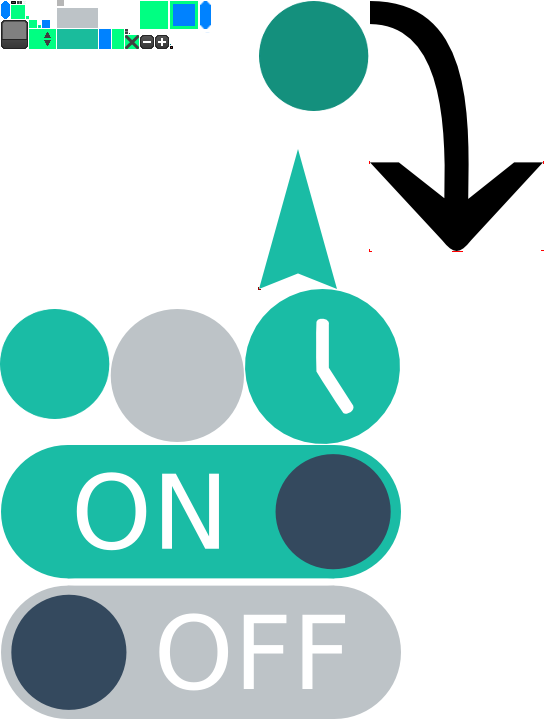
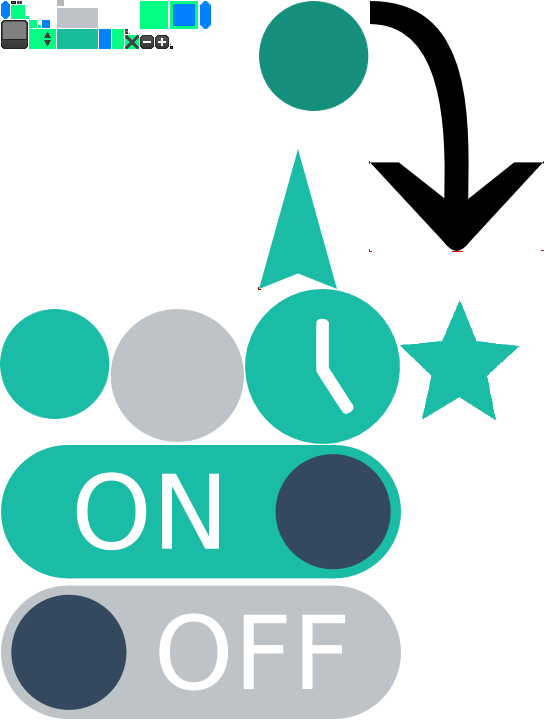
added a score overlay to display the current score

Changed region(s): [[0.7109, 0.4272, 0.9582, 0.5798]]

diff --git a/core/src/de/fau/cs/mad/fly/game/ScoreController.java b/core/src/de/fau/cs/mad/fly/game/ScoreController.java
@@ -1,6 +1,8 @@
 package de.fau.cs.mad.fly.game;
 
+import java.util.ArrayList;
 import java.util.Date;
+import java.util.List;
 
 import de.fau.cs.mad.fly.profile.Score;
 import de.fau.cs.mad.fly.profile.ScoreDetail;
@@ -13,7 +15,7 @@ import de.fau.cs.mad.fly.res.Gate;
  * @author Tobi
  *
  */
-public class ScoreController extends EventAdapter {
+public class ScoreController extends EventAdapter {    
 	/**
 	 * The total score.
 	 */
@@ -28,11 +30,17 @@ public class ScoreController extends EventAdapter {
 	 * The score from collected bonus points.
 	 */
 	private int bonusPoints = 0;
+	
+	/**
+	 * List of score change listeners which get notified if the score has changed.
+	 */
+    private List<ScoreChangeListener> scoreChangeListeners;
 
 	/**
 	 * Creates a new score controller.
 	 */
-	public ScoreController() {	
+	public ScoreController() {
+		scoreChangeListeners = new ArrayList<ScoreChangeListener>();
 	}
 	
 	/**
@@ -77,6 +85,7 @@ public class ScoreController extends EventAdapter {
     public void addBonusPoints(int bonusPoints) {
     	this.bonusPoints += bonusPoints;
     	this.totalScore += bonusPoints;
+    	scoreChanged();
     }
     
     /**
@@ -87,9 +96,27 @@ public class ScoreController extends EventAdapter {
     	return totalScore;
     }
     
+    /**
+     * Notifies all {@link ScoreChangeListener}
+     */
+    private void scoreChanged() {
+    	int size = scoreChangeListeners.size();
+        for (int i = 0; i < size; i++) {
+        	scoreChangeListeners.get(i).scoreChanged(totalScore);
+        }
+    }
+    
+    /**
+     * Register a new {@link ScoreChangeListener}
+     */
+    public void registerScoreChangeListener(ScoreChangeListener listener) {
+    	scoreChangeListeners.add(listener);
+    }
+    
     @Override
     public void onGatePassed(Gate gate) {
     	this.gatePassedScore += gate.score;
     	this.totalScore += gate.score;
+    	scoreChanged();
     }
 }

diff --git a/core/src/de/fau/cs/mad/fly/game/GameControllerBuilder.java b/core/src/de/fau/cs/mad/fly/game/GameControllerBuilder.java
@@ -28,6 +28,7 @@ import de.fau.cs.mad.fly.features.overlay.GameFinishedOverlay;
 import de.fau.cs.mad.fly.features.overlay.InfoButtonOverlay;
 import de.fau.cs.mad.fly.features.overlay.InfoOverlay;
 import de.fau.cs.mad.fly.features.overlay.PauseGameOverlay;
+import de.fau.cs.mad.fly.features.overlay.ScoreOverlay;
 import de.fau.cs.mad.fly.features.overlay.SteeringOverlay;
 import de.fau.cs.mad.fly.features.overlay.SteeringResetOverlay;
 import de.fau.cs.mad.fly.features.overlay.TimeLeftOverlay;
@@ -199,6 +200,7 @@ public class GameControllerBuilder {
         Preferences preferences = playerProfile.getSettingManager().getPreferences();
         addGateIndicator();
         addTimeLeftOverlay();
+        addScoreOverlay();
         addInfoOverlays();
         
         if (preferences.getBoolean(SettingManager.SHOW_PAUSE)) {
@@ -323,14 +325,24 @@ public class GameControllerBuilder {
     }
     
     /**
-     * Adds a {@link TimeLeftOverlay} to the GameController, that is initialized
-     * and updated every frame.
+     * Adds a {@link TimeLeftOverlay} to the GameController.
      * 
      * @return Builder instance with TimeLeftOverlay
      */
     private GameControllerBuilder addTimeLeftOverlay() {
         TimeLeftOverlay timeLeftOverlay = new TimeLeftOverlay(game.getSkin(), stage);
         timeController.registerIntegerTimeListener(timeLeftOverlay);
+        return this;
+    }
+    
+    /**
+     * Adds a {@link ScoreOverlay} to the GameController.
+     * 
+     * @return Builder instance with ScoreOverlay
+     */
+    private GameControllerBuilder addScoreOverlay() {
+        ScoreOverlay scoreOverlay = new ScoreOverlay(game.getSkin(), stage);
+        scoreController.registerScoreChangeListener(scoreOverlay);
         return this;
     }
     

diff --git a/core/src/de/fau/cs/mad/fly/features/overlay/ScoreOverlay.java b/core/src/de/fau/cs/mad/fly/features/overlay/ScoreOverlay.java
@@ -1,0 +1,48 @@
+package de.fau.cs.mad.fly.features.overlay;
+
+import com.badlogic.gdx.graphics.g2d.NinePatch;
+import com.badlogic.gdx.graphics.g2d.TextureRegion;
+import com.badlogic.gdx.scenes.scene2d.Stage;
+import com.badlogic.gdx.scenes.scene2d.ui.Image;
+import com.badlogic.gdx.scenes.scene2d.ui.Label;
+import com.badlogic.gdx.scenes.scene2d.ui.Skin;
+import com.badlogic.gdx.scenes.scene2d.ui.Table;
+import com.badlogic.gdx.scenes.scene2d.utils.NinePatchDrawable;
+
+import de.fau.cs.mad.fly.game.IntegerTimeListener;
+import de.fau.cs.mad.fly.game.ScoreChangeListener;
+
+/**
+ * Optional Feature to display the current score.
+ * 
+ * @author Tobias Zangl
+ */
+public class ScoreOverlay implements ScoreChangeListener {
+
+	private final Label scoreCounter;
+
+	public ScoreOverlay(final Skin skin, final Stage stage) {	    
+        
+        final Table innerTable = new Table();
+        final NinePatchDrawable background = new NinePatchDrawable(skin.get("grey-progress-bar", NinePatch.class));
+        innerTable.setBackground(background);
+        
+        final TextureRegion textureRegion = new TextureRegion(skin.getRegion("star"));
+        final Image scoreIcon = new Image(textureRegion);
+        
+        scoreCounter = new Label("", skin);
+        
+        innerTable.row().expand();
+        innerTable.add(scoreIcon);
+        innerTable.add(scoreCounter).pad(0, 50, 0, 0);
+        innerTable.row().expand();
+        stage.addActor(innerTable);
+        innerTable.setBounds(3350, 2050, 600, 300);
+	}
+
+	@Override
+	public void scoreChanged(int newScore) {
+		scoreCounter.setText(String.valueOf(newScore));
+	}
+
+}

diff --git a/core/src/de/fau/cs/mad/fly/game/TimeIsUpListener.java b/core/src/de/fau/cs/mad/fly/game/TimeIsUpListener.java
@@ -3,7 +3,7 @@ package de.fau.cs.mad.fly.game;
 public interface TimeIsUpListener {
 	
 	/**
-	 * Is called if the time of the level is other.
+	 * Is called if the time of the level is over.
 	 * 
 	 * @return true, if the listener wants to be removed from the list after the call, false otherwise.
 	 */

diff --git a/core/src/de/fau/cs/mad/fly/game/ScoreChangeListener.java b/core/src/de/fau/cs/mad/fly/game/ScoreChangeListener.java
@@ -1,0 +1,9 @@
+package de.fau.cs.mad.fly.game;
+
+public interface ScoreChangeListener {
+	
+	/**
+	 * Is called if the score has changed.
+	 */
+	public void scoreChanged(int newScore);
+}
